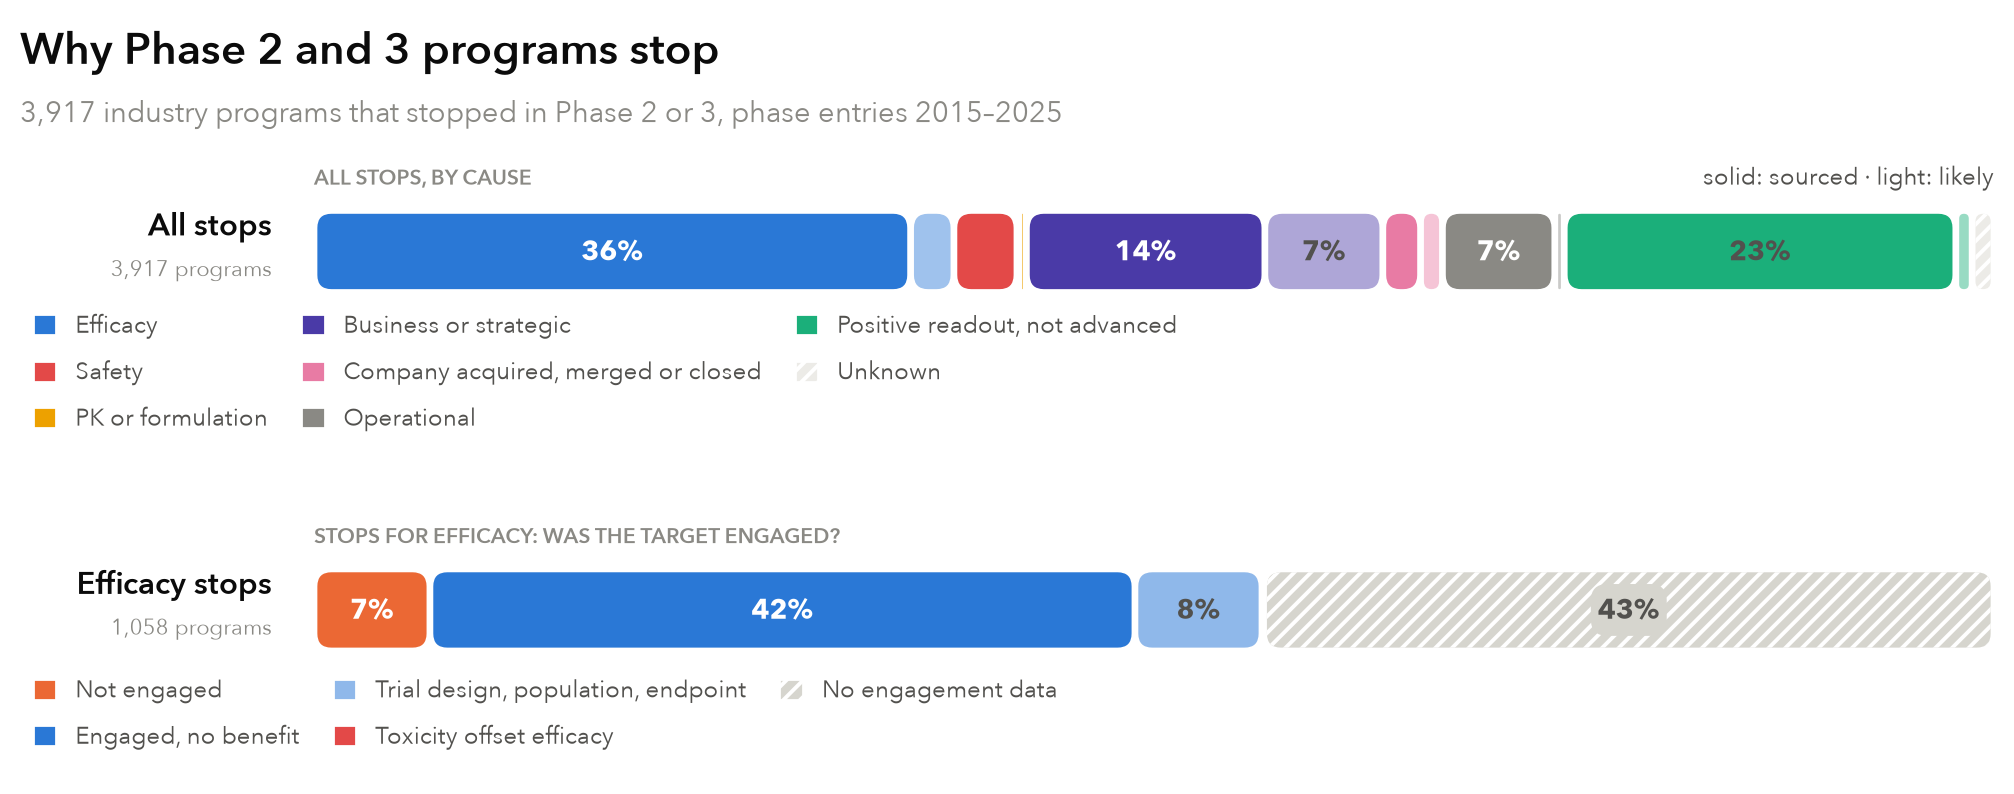
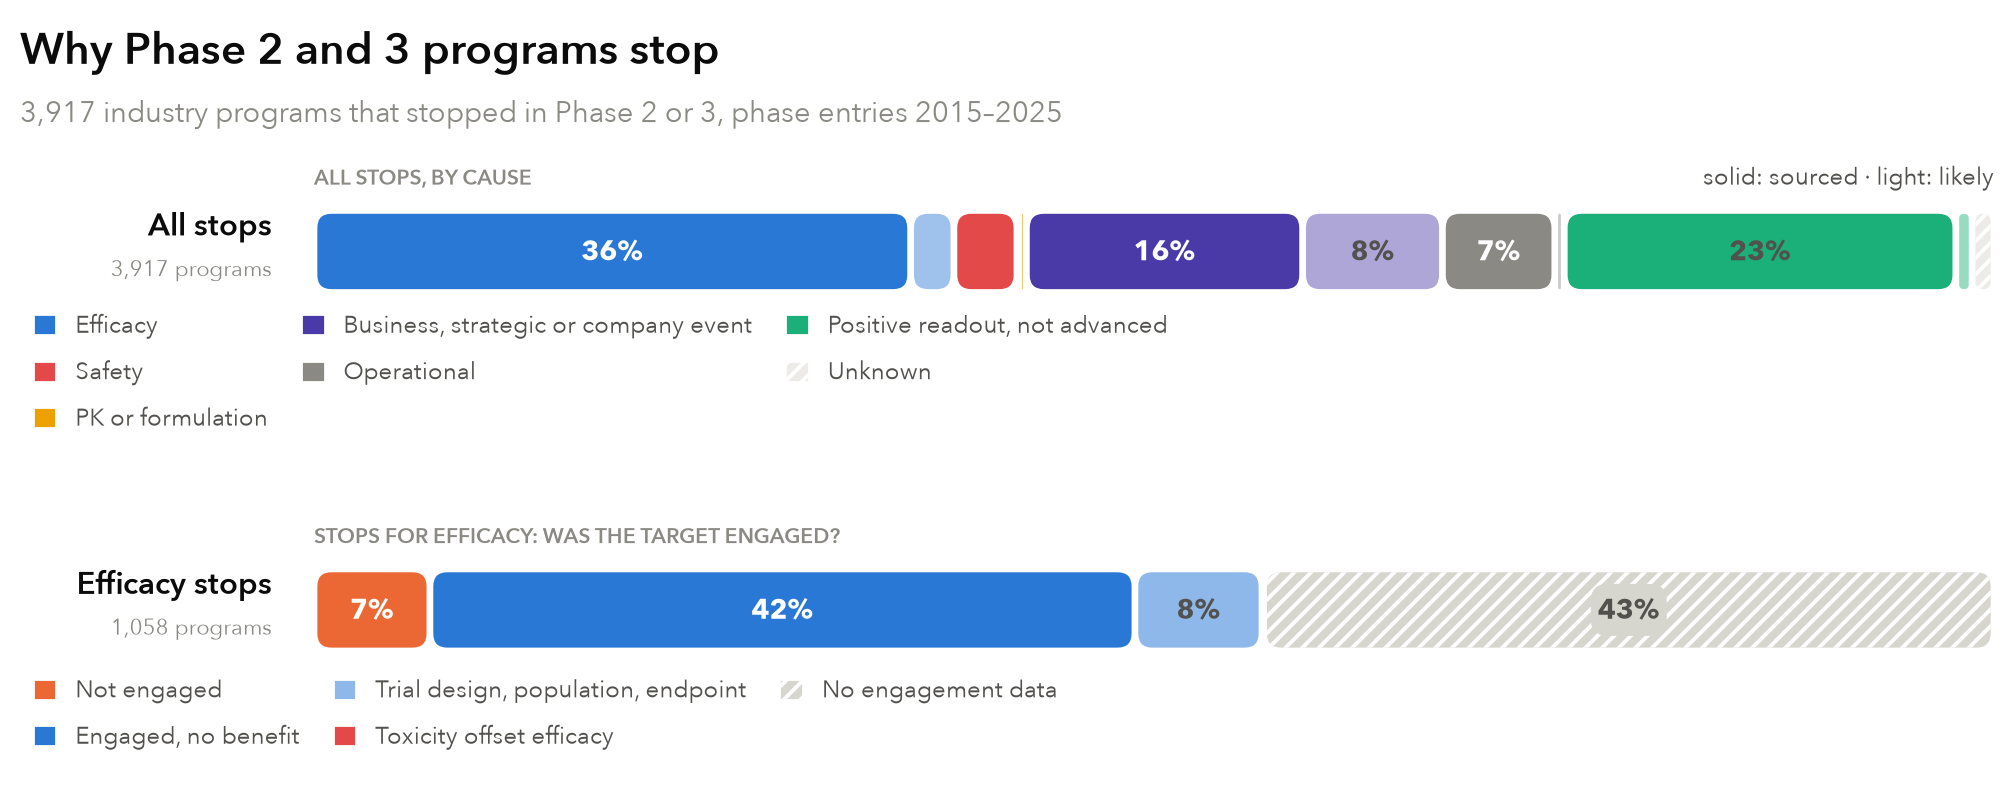
Attribution figure: company events counted with business and strategic stops

diff --git a/report/figures.py b/report/figures.py
@@ -140,7 +140,10 @@ def efficacy_attribution():
     causes = pd.read_csv(os.path.join(OUT, "stop_causes", "programs.csv"))
     continued = "development_continued"
     causes = causes[(causes.cause != continued) & ~((causes.cause == "unknown") & (causes.likely == continued))]
-    shown = {c: v for c, v in CAUSE_COLORS.items() if c != continued}
+    causes = causes.replace({"cause": {"company_event": "business_strategic"},
+                             "likely": {"company_event": "business_strategic"}})
+    shown = {c: v for c, v in CAUSE_COLORS.items() if c not in (continued, "company_event")}
+    shown["business_strategic"] = ("Business, strategic or company event", shown["business_strategic"][1])
     total = len(causes)
     after = []
     for c, (_, col) in shown.items():
